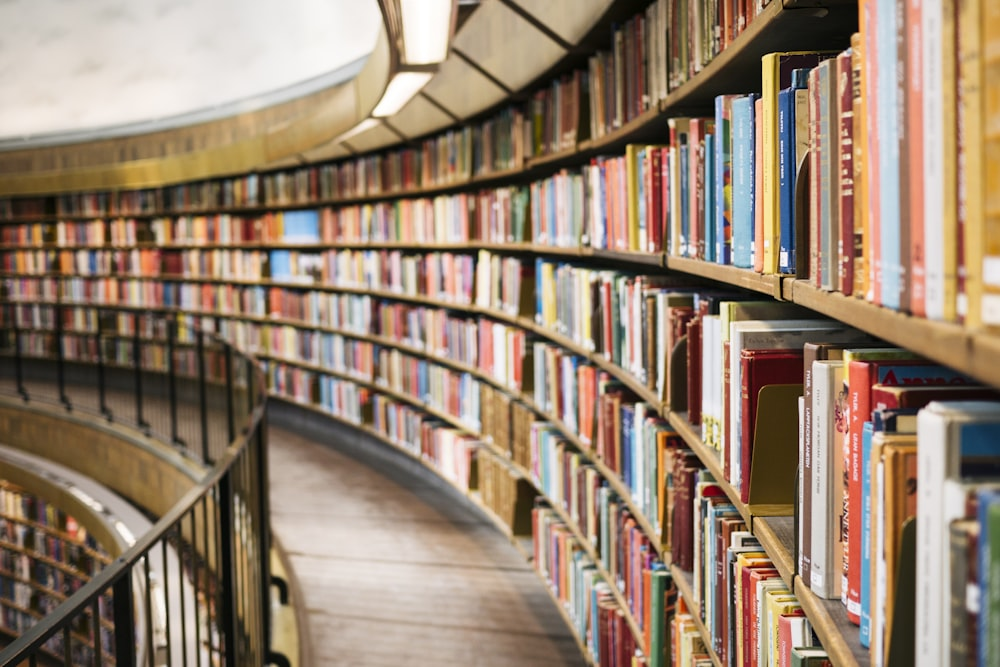
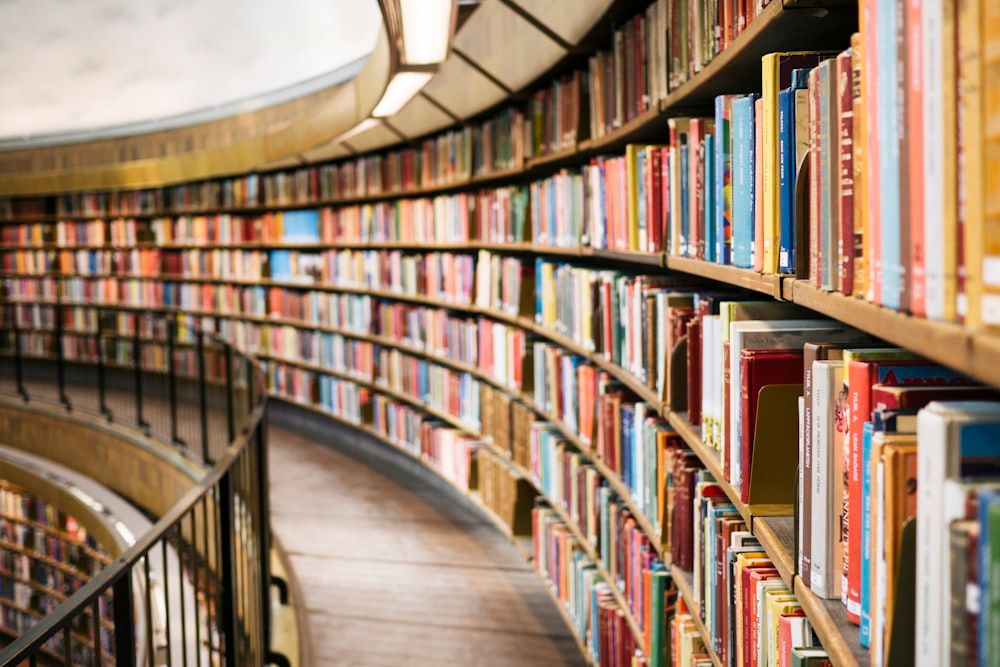
perf(home): PERF-06 首页静态图与精选封面换 next/image，大图本体一次性压缩
hero LCP 背景（400KB）/五联画影像/宝丽来拼贴/精选课程 MinIO 封面全部换
next/image（fill 模式，priority/懒加载/AVIF+WebP 运行时转换/响应式 srcset），
Ken Burns/浮动/hover 动效类保留原位；next.config images.formats 补 avif；
9 张首页 JPEG 本体经 sharp 一次性重压缩（q80 渐进式、尺寸零变化，
合计 1600KB→1406KB）。视觉与 E2E 选择器契约不变（data-testid 未动）。

diff --git a/student-frontend/src/components/home/entry-tiles.tsx b/student-frontend/src/components/home/entry-tiles.tsx
@@ -14,7 +14,10 @@
  * flex/margin/filter/transform 统一 expo-out 同曲线消除错拍（样式见
  * globals.css「首页五联画宫格：层叠式悬浮」块，仅 lg+ 悬停设备生效）；
  * 移动端折行为两列网格。纯 CSS 动画。
+ * PERF-06：五联画影像改走 next/image（fill + 懒加载 + AVIF/WebP 转换），
+ * 灰度/层叠悬浮等视觉类保留。
  */
+import Image from "next/image";
 import Link from "next/link";
 import { Reveal } from "@/components/motion/reveal";
 
@@ -46,11 +49,12 @@ export function EntryTiles() {
             className="entry-tile entry-tile--mid group relative grid min-w-0 flex-1 place-items-center overflow-hidden max-lg:h-[210px] max-lg:flex-basis-full"
           >
             <Link href={tile.href} aria-label="进入课程助手" className="absolute inset-0 z-[3]" />
-            <img
+            <Image
               src={tile.src}
               alt=""
-              loading="lazy"
-              className="absolute inset-0 h-full w-full object-cover"
+              fill
+              sizes="(max-width: 1024px) 100vw, 20vw"
+              className="object-cover"
             />
             <span
               aria-hidden
@@ -77,11 +81,12 @@ export function EntryTiles() {
             className="entry-tile group relative flex min-w-0 flex-1 overflow-hidden max-lg:h-[250px] max-lg:flex-basis-1/2"
           >
             <Link href={tile.href} aria-label={tile.label} className="absolute inset-0 z-[3]" />
-            <img
+            <Image
               src={tile.src}
               alt=""
-              loading="lazy"
-              className="h-full w-full object-cover grayscale"
+              fill
+              sizes="(max-width: 1024px) 50vw, 20vw"
+              className="object-cover grayscale"
             />
             <span
               aria-hidden

diff --git a/student-frontend/src/components/home/method-collage.tsx b/student-frontend/src/components/home/method-collage.tsx
@@ -6,7 +6,10 @@
  * 业务替换：西伦敦私塾故事 → RAG 检索增强工作原理的三步讲述
  * （入库 → 检索 → 有据可答），右侧文字块 + 左侧漂浮宝丽来照片墙
  * （三张错落旋转浮动动画 + 区块级视差位移）。
+ * PERF-06：宝丽来照片改走 next/image（fill + 懒加载 + AVIF/WebP 转换），
+ * 浮动/旋转动效保留在 figure 上不受影响。
  */
+import Image from "next/image";
 import Link from "next/link";
 import { useParallax } from "@/components/motion/parallax";
 import { Reveal } from "@/components/motion/reveal";
@@ -64,12 +67,16 @@ export function MethodCollage() {
                 className={`absolute bg-white p-3 pb-4 shadow-xl ${snap.className} ${snap.rotate}`}
                 style={{ animation: `floaty 8s ease-in-out ${snap.delay} infinite` }}
               >
-                <img
-                  src={snap.src}
-                  alt=""
-                  loading="lazy"
-                  className="aspect-4/3.1 w-full object-cover"
-                />
+                {/* 相对定位容器承载原 aspect 比例（fill 模式需有尺寸的定位父级） */}
+                <div className="relative aspect-4/3.1">
+                  <Image
+                    src={snap.src}
+                    alt=""
+                    fill
+                    sizes="(max-width: 1024px) 60vw, 20vw"
+                    className="object-cover"
+                  />
+                </div>
               </figure>
             ))}
           </div>

diff --git a/student-frontend/src/components/home/featured-courses.tsx b/student-frontend/src/components/home/featured-courses.tsx
@@ -9,8 +9,11 @@
  * 四态契约保留：骨架（Loading）／空态／错误重试／正常网格；
  * 布局改为设计稿三列大卡（sepia 封面 hover 复原、时长徽章、分类 pill、衬线标题、
  * 元信息圆点行、讲师头像 + 价签位），reduced-motion 全静态。
+ * PERF-06：封面改走 next/image（fill + MinIO remotePatterns 白名单同课程中心口径，
+ * 原图直链经运行时优化管道转 AVIF/WebP；sepia/hover 复原动效类保留）。
  */
 import { useQuery } from "@tanstack/react-query";
+import Image from "next/image";
 import Link from "next/link";
 import { Reveal, Stagger } from "@/components/motion/reveal";
 import { EmptyState } from "@/components/empty-state";
@@ -39,11 +42,12 @@ function WenquCourseCard({
       {/* 媒体区：sepia 暖调 → hover 复原微放大 */}
       <div className="relative aspect-16/10 overflow-hidden">
         {course.coverImage ? (
-          <img
+          <Image
             src={course.coverImage}
             alt=""
-            loading="lazy"
-            className="h-full w-full object-cover transition-transform duration-1000 ease-out group-hover:scale-[1.06]"
+            fill
+            sizes="(max-width: 768px) 100vw, (max-width: 1024px) 50vw, 33vw"
+            className="object-cover transition-transform duration-1000 ease-out group-hover:scale-[1.06]"
             style={{ filter: "sepia(.12)" }}
           />
         ) : (

diff --git a/student-frontend/src/components/home/hero.tsx b/student-frontend/src/components/home/hero.tsx
@@ -7,7 +7,10 @@
  * 动画契约与设计稿逐帧一致——hero-word/bg/foot 三层以 y*0.30/0.16/0.08 差速位移，
  * 大字随滚动渐隐；reduced-motion 下全部静态呈现（hydration 安全：SSR 输出无随机量，
  * 入场动画为纯 CSS keyframes，挂载后才启动 rAF 视差，2026-08-26 教训对齐）。
+ * PERF-06：LCP 背景改走 next/image（priority 预载 + AVIF/WebP 运行时转换 +
+ * 响应式 srcset），Ken Burns 动效保留在图元素 style 上。
  */
+import Image from "next/image";
 import Link from "next/link";
 import { useEffect, useRef } from "react";
 
@@ -56,13 +59,15 @@ export function HomeHero() {
       className="relative flex min-h-[calc(100vh-68px)] flex-col overflow-hidden bg-surface-deep text-bg md:min-h-[calc(100vh-78px)]"
       id="top"
     >
-      {/* 背景：本地化素材 Ken Burns 缓推近 */}
+      {/* 背景：本地化素材 Ken Burns 缓推近（PERF-06：next/image priority 预载 LCP） */}
       <div ref={bgRef} aria-hidden className="absolute inset-0 will-change-transform">
-        <img
+        <Image
           src="/images/hero-study.jpg"
           alt=""
-          fetchPriority="high"
-          className="h-full w-full object-cover"
+          fill
+          priority
+          sizes="100vw"
+          className="object-cover"
           style={{ animation: "kenburns 7s cubic-bezier(.22,.61,.36,1) both" }}
         />
         <div

diff --git a/student-frontend/next.config.ts b/student-frontend/next.config.ts
@@ -13,7 +13,10 @@ const nextConfig: NextConfig = {
     return [{ source: "/api/v1/:path*", destination: "http://localhost:8080/api/v1/:path*" }];
   },
   images: {
+    // PERF-06：优化管道输出格式补 AVIF（默认仅 WebP；现代浏览器协商命中 AVIF 体积再降 ~30%）
+    formats: ["image/avif", "image/webp"],
     // 课程封面图来自本地 MinIO（9000 端口），供 next/image 优化使用
+    // （首页精选课程封面 PERF-06 同口径复用；生产域名接入时在此追加）
     remotePatterns: [{ protocol: "http", hostname: "localhost", port: "9000" }],
   },
 };
